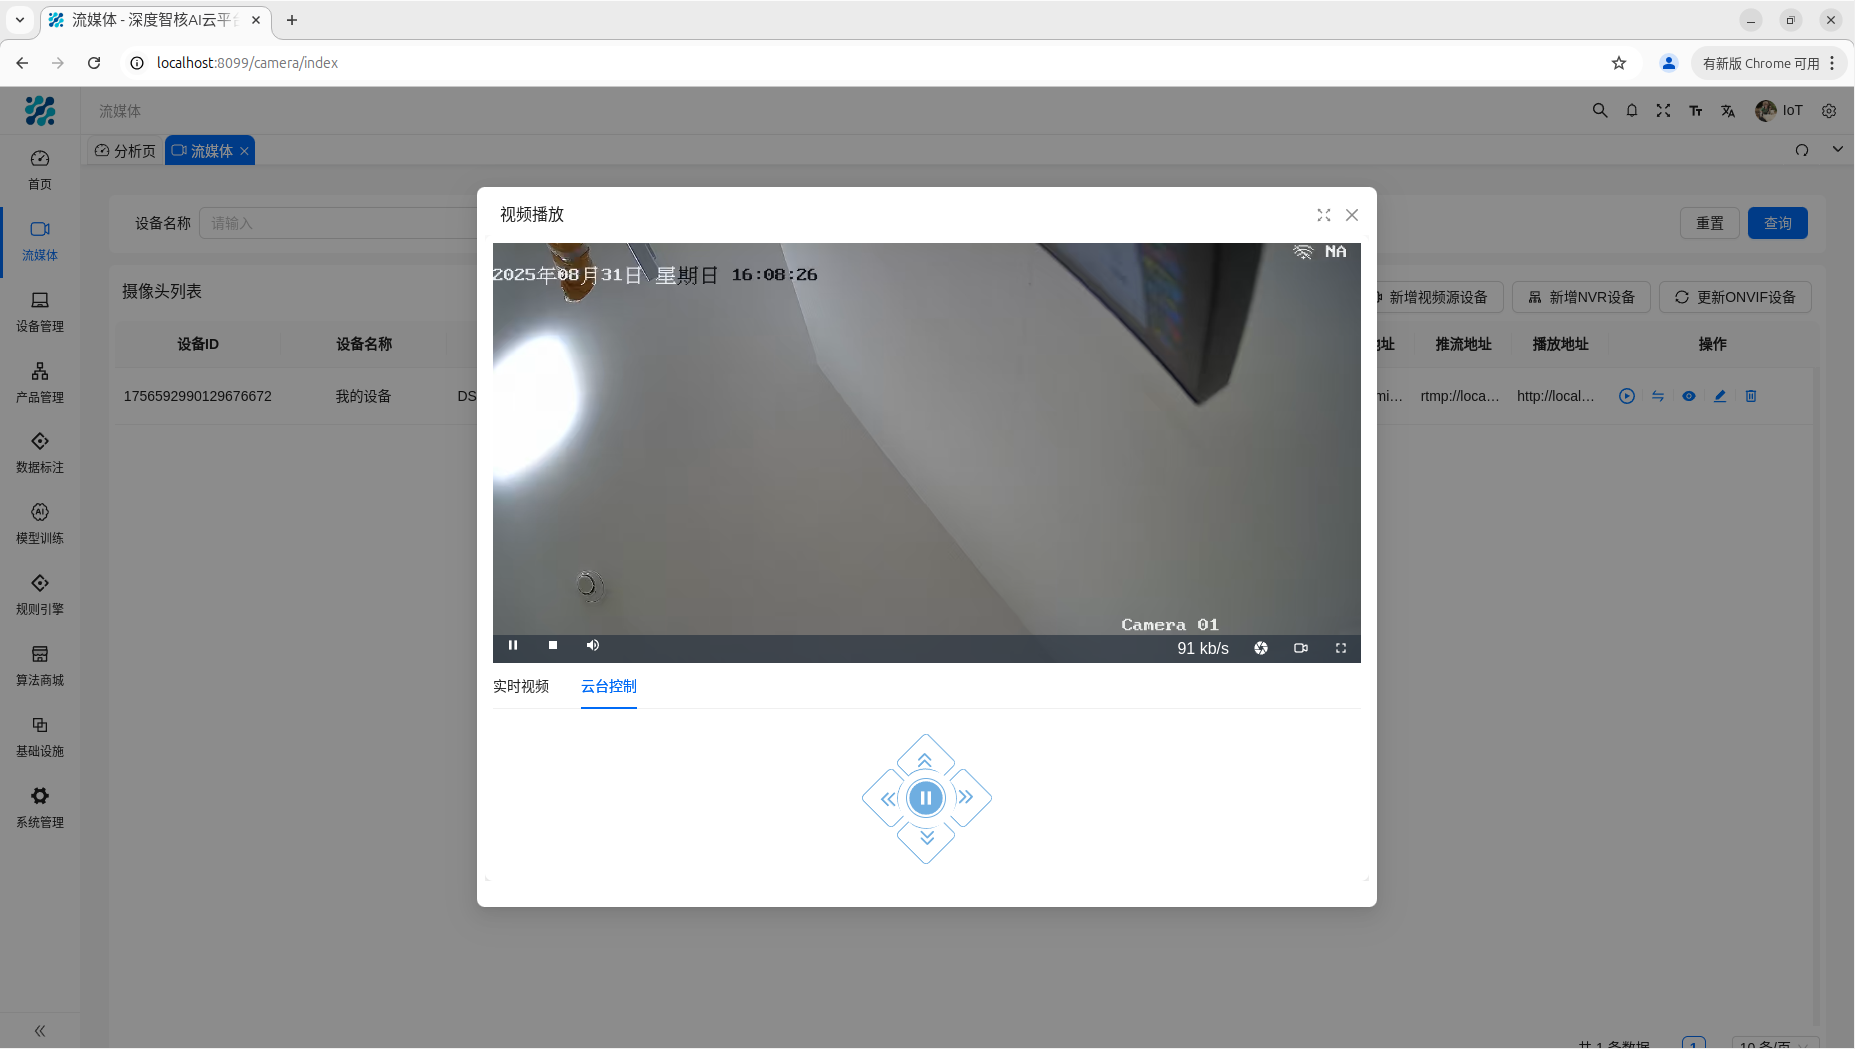
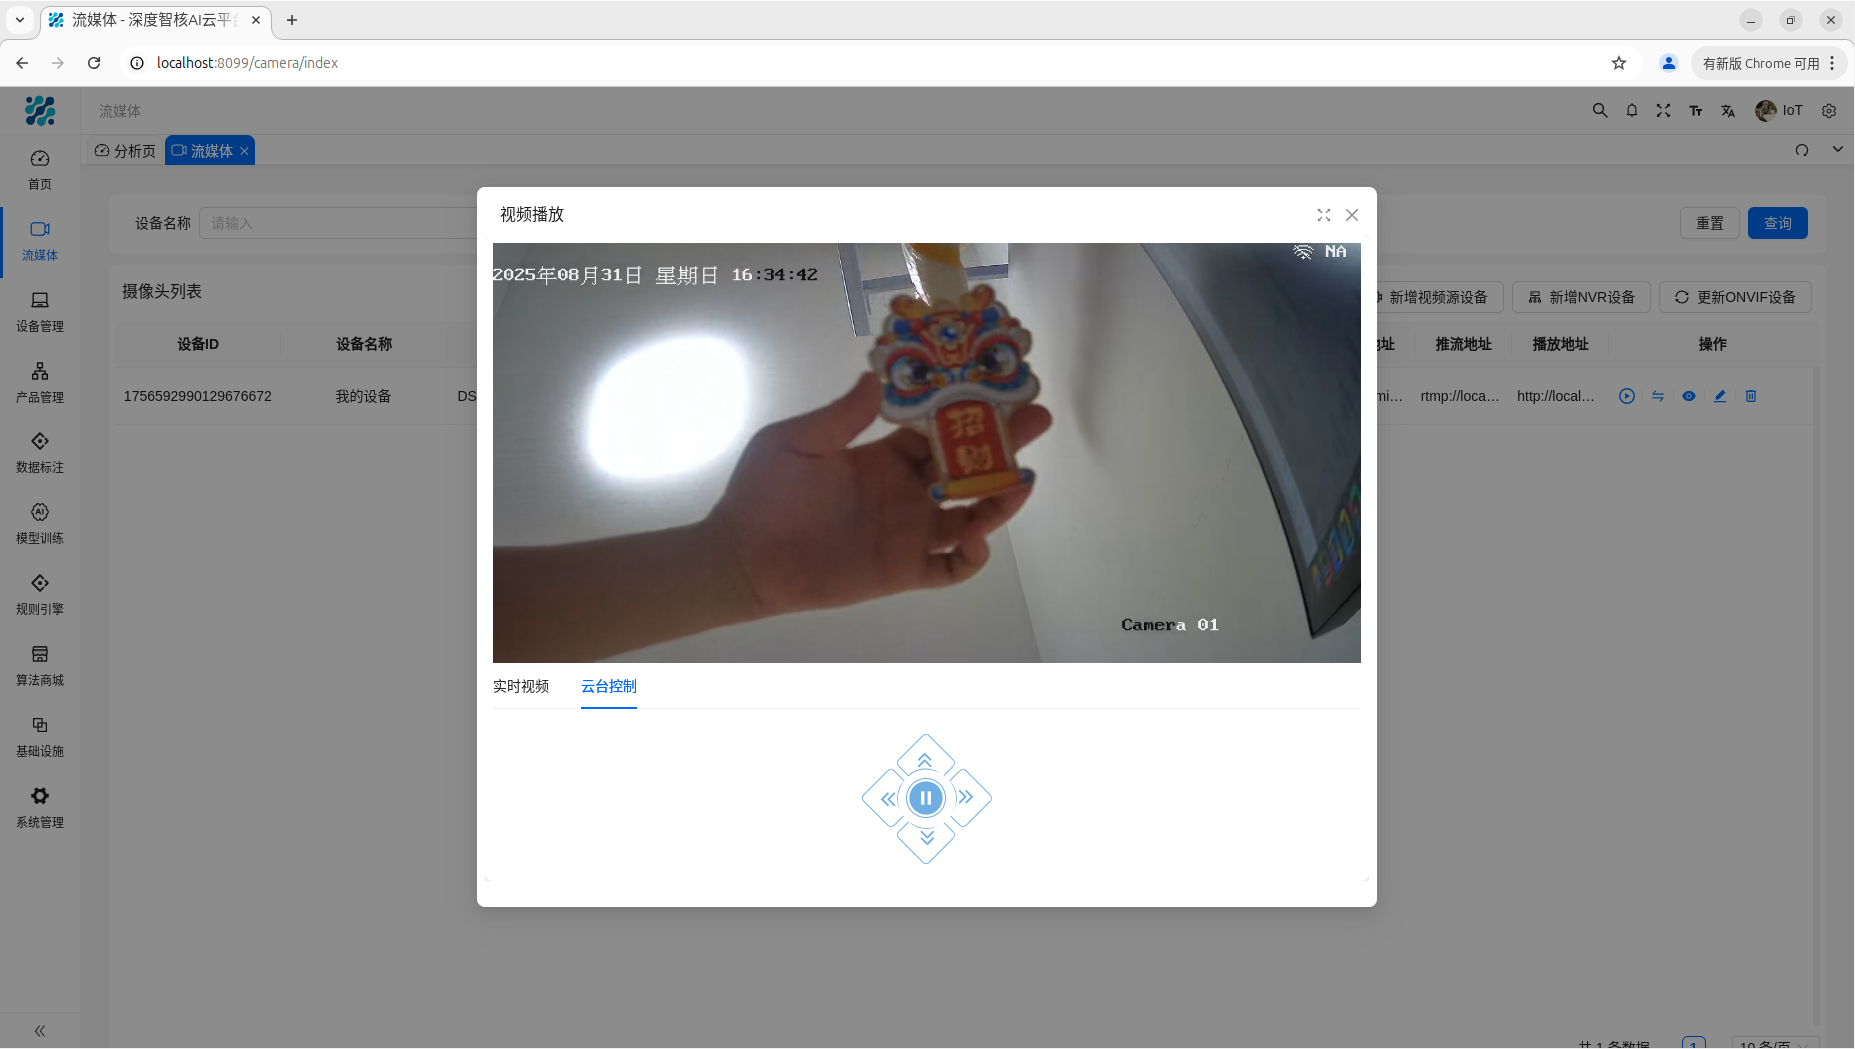
udp(WEB):增加云台指令上下左右控制截图

Changed region(s): [[0.2458, 0.2135, 0.7375, 0.6406]]

diff --git a/README_en.md b/README_en.md
@@ -187,7 +187,7 @@ compensate third parties for damages caused by usage. All EasyAIoT-related resou
 </div>
 <div>
   <img src=".image/banner/banner1026.jpg" alt="Screenshot 8" width="49%" style="margin-right: 10px">
-  <img src=".image/banner/banner1028.jpg" alt="Screenshot 7">
+  <img src=".image/banner/banner1028.jpg" alt="Screenshot 7" width="49%">
 </div>
 <div>
   <img src=".image/banner/banner1013.jpg" alt="Screenshot 9" width="49%" style="margin-right: 10px">